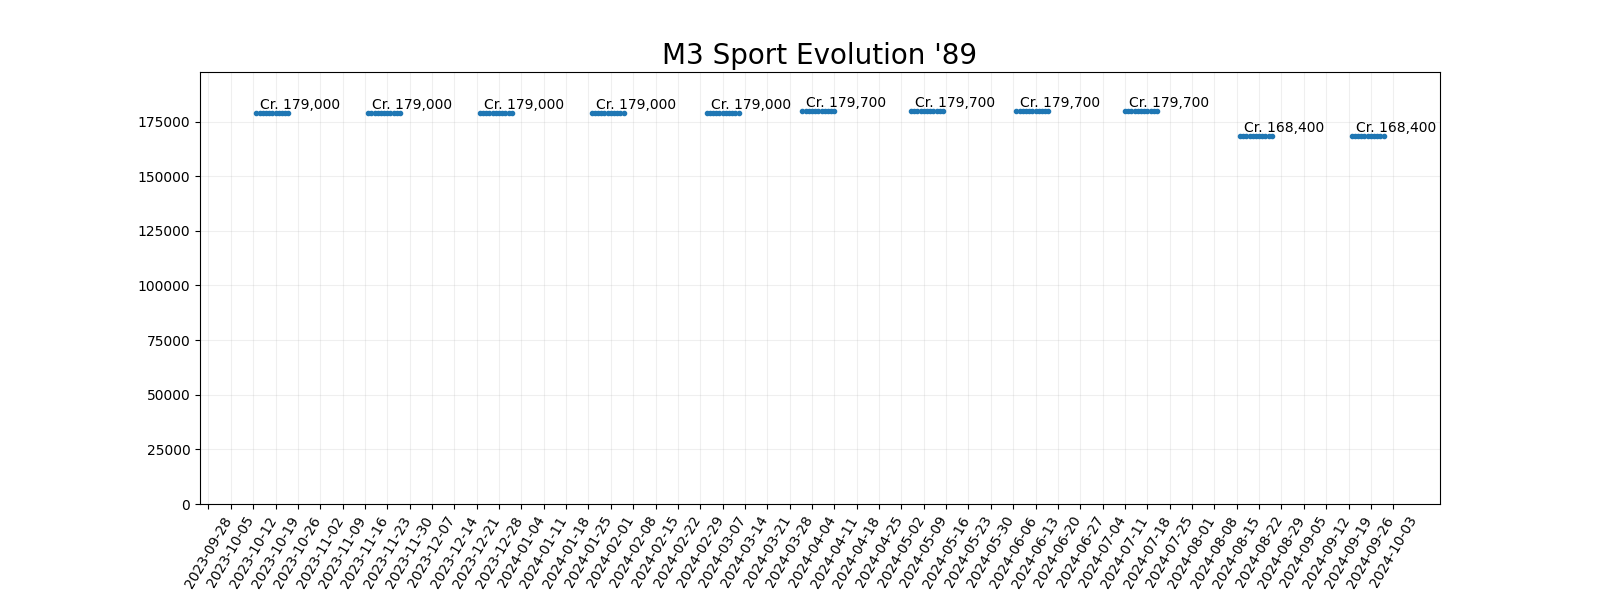
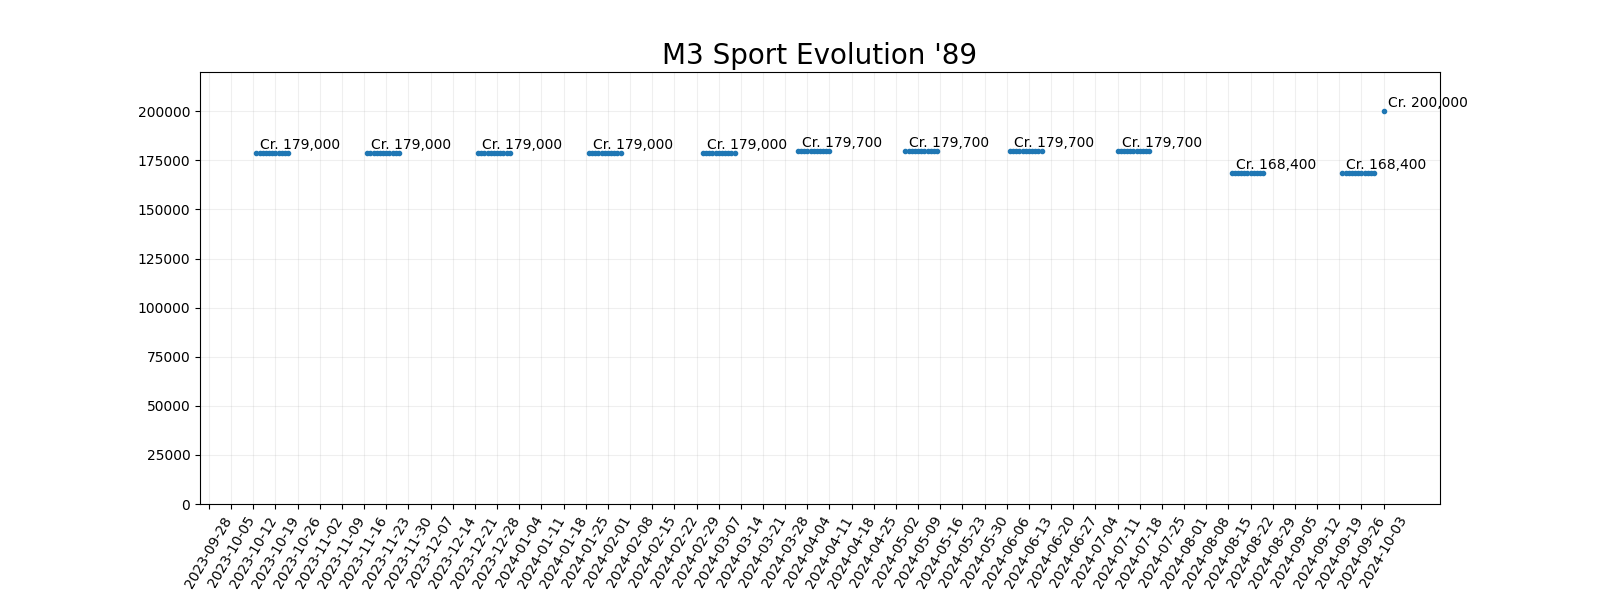
Deploying to gh-pages from @ ddm999/gt7info@818713f7c41b587898bad4af7f79d04671123d4d 🚀

diff --git a/index.html b/index.html
@@ -15,7 +15,7 @@
   <script type="application/ld+json">
     {"@context":"https://schema.org","@type":"WebSite","headline":"GT7 Online Dealerships & Info","name":"ddm999.github.io","url":"https://ddm999.github.io/gt7info/"}
   </script>
-  <link rel="stylesheet" href="style.css?nocache=20241003000955">
+  <link rel="stylesheet" href="style.css?nocache=20241003091059">
 </head>
 <body>
   <div class="wrapper">
@@ -67,7 +67,14 @@
       <br>
       Hover over the icons in the bottom-left of cars for more details on what they represent.<br>
       Note that cars are always "Limited Stock" for 2 days.<br>
-      <span class="car-container"><p class="car">
+      <span class="car-container"><p class="car carnew">
+        <img id="flag" src="https://flagcdn.com/h24/jp.png"/>
+        <span id="manufacturer">MITSUBISHI</span>
+        <span id="name">Lancer Evolution VIII MR GSR '04</span>
+        <span id="credits"><span id="cr">Cr.</span> 65,800</span>
+        <span id="new">NEW</span>
+        <span id="days-estimate">No Estimate Available</span>
+      </p><p class="car">
         <img id="flag" src="https://flagcdn.com/h24/jp.png"/>
         <span id="manufacturer">NISSAN</span>
         <span id="name"><a href="cars/prices_919.png" target="_blank">Silvia Q's (S13) '88</a></span>
@@ -77,12 +84,30 @@
         <img id="reward-icon" src="img/open-book.svg" width="24" title="Reward from Menu Book 10"/>
         <span id="engineswap-text">ENGINE<br>SWAP</span>
         <img id="engineswap-icon" src="img/engine.svg" width="24" title="Supports engine swap: LS7-BRZ from BRZ Drift Car '17"/>
+      </p><p class="car carnew">
+        <img id="flag" src="https://flagcdn.com/h24/de.png"/>
+        <span id="manufacturer">BMW</span>
+        <span id="name"><a href="cars/prices_3344.png" target="_blank">M3 Sport Evolution '89</a></span>
+        <span id="credits"><span id="cr">Cr.</span> 200,000</span>
+        <span id="new">NEW</span>
+        <span id="days-estimate">No Estimate Available</span>
+        <span id="reward-text">REWARD<br>CAR</span>
+        <img id="reward-icon" src="img/open-book.svg" width="24" title="Reward from Menu Book 22"/>
+        <span id="engineswap-text">ENGINE<br>SWAP</span>
+        <img id="engineswap-icon" src="img/engine.svg" width="24" title="Supports engine swap: B58-GR-Supra-'20 from GR Supra RZ '20"/>
+      </p><p class="car carnew">
+        <img id="flag" src="https://flagcdn.com/h24/us.png"/>
+        <span id="manufacturer">FORD</span>
+        <span id="name"><a href="cars/prices_3466.png" target="_blank">Sierra RS 500 Cosworth '87</a></span>
+        <span id="credits"><span id="cr">Cr.</span> 200,000</span>
+        <span id="new">NEW</span>
+        <span id="days-estimate">No Estimate Available</span>
       </p><p class="car">
         <img id="flag" src="https://flagcdn.com/h24/jp.png"/>
         <span id="manufacturer">HONDA</span>
         <span id="name"><a href="cars/prices_37.png" target="_blank">Civic SiR-II (EG) '93</a></span>
         <span id="credits"><span id="cr">Cr.</span> 52,500</span>
-        <span id="days-estimate">Available For 6 More Days</span>
+        <span id="days-estimate">Available For 2 More Days</span>
         <span id="engineswap-text">ENGINE<br>SWAP</span>
         <img id="engineswap-icon" src="img/engine.svg" width="24" title="Supports engine swap: B18C-Integra-'98 from Integra Type R (DC2) '98"/>
       </p><p class="car carnew">
@@ -150,7 +175,7 @@
         <span id="manufacturer">TOYOTA</span>
         <span id="name"><a href="cars/prices_63.png" target="_blank">Corolla Levin 1600GT APEX (AE86) '83</a></span>
         <span id="credits"><span id="cr">Cr.</span> 48,900</span>
-        <span id="days-estimate">Available For 4 More Days</span>
+        <span id="days-estimate">Available For 2 More Days</span>
         <span id="reward-text">REWARD<br>CAR</span>
         <img id="reward-icon" src="img/open-book.svg" width="24" title="Reward from Menu Book 10"/>
         <span id="engineswap-text">ENGINE<br>SWAP</span>
@@ -167,7 +192,7 @@
         <span id="manufacturer">MITSUBISHI</span>
         <span id="name"><a href="cars/prices_211.png" target="_blank">Lancer Evolution V GSR '98</a></span>
         <span id="credits"><span id="cr">Cr.</span> 80,100</span>
-        <span id="days-estimate">Available For 6 More Days</span>
+        <span id="days-estimate">Available For 4 More Days</span>
         <span id="engineswap-text">ENGINE<br>SWAP</span>
         <img id="engineswap-icon" src="img/engine.svg" width="24" title="Supports engine swap: Evo-Final-Gr.B from Lancer Evolution Final Gr.B Rally Car"/>
       </p><p class="car carlimited">
@@ -214,13 +239,13 @@
         <span id="manufacturer">SUBARU</span>
         <span id="name"><a href="cars/prices_3432.png" target="_blank">Impreza Sedan WRX STi '04</a></span>
         <span id="credits"><span id="cr">Cr.</span> 42,000</span>
-        <span id="days-estimate">Available For 3 More Days</span>
+        <span id="days-estimate">Available For 5 More Days</span>
       </p><p class="car">
         <img id="flag" src="https://flagcdn.com/h24/jp.png"/>
         <span id="manufacturer">SUBARU</span>
         <span id="name"><a href="cars/prices_379.png" target="_blank">Impreza Coupe WRX Type R STi Ver.VI '99</a></span>
         <span id="credits"><span id="cr">Cr.</span> 55,000</span>
-        <span id="days-estimate">Available For 7 More Days</span>
+        <span id="days-estimate">Available For 3 More Days</span>
       </p><p class="car carlimited">
         <img id="flag" src="https://flagcdn.com/h24/jp.png"/>
         <span id="manufacturer">MITSUBISHI</span>
@@ -237,7 +262,7 @@
         <span id="manufacturer">NISSAN</span>
         <span id="name"><a href="cars/prices_773.png" target="_blank">R32 GT-R V-spec II '94</a></span>
         <span id="credits"><span id="cr">Cr.</span> 178,600</span>
-        <span id="days-estimate">Available For 10 More Days</span>
+        <span id="days-estimate">Available For 6 More Days</span>
         <span id="reward-text">REWARD<br>CAR</span>
         <img id="reward-icon" src="img/open-book.svg" width="24" title="Reward from Menu Book 18"/>
         <span id="engineswap-text">ENGINE<br>SWAP</span>
@@ -247,7 +272,7 @@
         <span id="manufacturer">MITSUBISHI</span>
         <span id="name"><a href="cars/prices_301.png" target="_blank">Lancer Evolution IV GSR '96</a></span>
         <span id="credits"><span id="cr">Cr.</span> 39,600</span>
-        <span id="days-estimate">Available For 10 More Days</span>
+        <span id="days-estimate">Available For 6 More Days</span>
         <span id="engineswap-text">ENGINE<br>SWAP</span>
         <img id="engineswap-icon" src="img/engine.svg" width="24" title="Supports engine swap: Evo-Final-Gr.B from Lancer Evolution Final Gr.B Rally Car"/>
       </p><p class="car carlimited">
@@ -270,7 +295,7 @@
         <span id="manufacturer">CHEVROLET</span>
         <span id="name"><a href="cars/prices_1480.png" target="_blank">Corvette ZR1 (C6) '09</a></span>
         <span id="credits"><span id="cr">Cr.</span> 99,000</span>
-        <span id="days-estimate">Available For 7 More Days</span>
+        <span id="days-estimate">Available For 5 More Days</span>
         <span id="engineswap-text">ENGINE<br>SWAP</span>
         <img id="engineswap-icon" src="img/engine.svg" width="24" title="Supports engine swap: 8.0-WR16-64v4T-Chiron from Chiron '16"/>
         <span id="lottery-text">TICKET<br>REWARD</span>
@@ -308,7 +333,7 @@
         <span id="manufacturer">AUDI</span>
         <span id="name"><a href="cars/prices_1365.png" target="_blank">R8 4.2 '07</a></span>
         <span id="credits"><span id="cr">Cr.</span> 135,900</span>
-        <span id="days-estimate">Available For 10 More Days</span>
+        <span id="days-estimate">Available For 5 More Days</span>
       </p><p class="car">
         <img id="flag" src="https://flagcdn.com/h24/jp.png"/>
         <span id="manufacturer">HONDA</span>
@@ -322,7 +347,7 @@
         <span id="manufacturer">PORSCHE</span>
         <span id="name"><a href="cars/prices_3358.png" target="_blank">911 GT3 (996) '01</a></span>
         <span id="credits"><span id="cr">Cr.</span> 161,700</span>
-        <span id="days-estimate">Available For 6 More Days</span>
+        <span id="days-estimate">Available For 4 More Days</span>
       </p><p class="car">
         <img id="flag" src="https://flagcdn.com/h24/de.png"/>
         <span id="manufacturer">PORSCHE</span>
@@ -346,6 +371,15 @@
         <span id="name"><a href="cars/prices_365.png" target="_blank">155 2.5 V6 TI '93</a></span>
         <span id="credits"><span id="cr">Cr.</span> 800,000</span>
         <span id="days-estimate">No Estimate Available</span>
+      </p><p class="lcar carnew">
+        <img id="icon" src="img/legend-hagerty-icon.svg"/>
+        <span id="manufacturer">Mercedes-Benz</span>
+        <span id="name"><a href="cars/prices_575.png" target="_blank">190 E 2.5-16 Evolution II '91</a></span>
+        <span id="credits"><span id="cr">Cr.</span> 280,000</span>
+        <span id="new">NEW</span>
+        <span id="days-estimate">No Estimate Available</span>
+        <span id="engineswap-text">ENGINE<br>SWAP</span>
+        <img id="engineswap-icon" src="img/engine-lcd.svg" width="24" title="Supports engine swap: M159-AMG-GT3-'20 from GT3 '20"/>
       </p><p class="lcar carlimited">
         <img id="icon" src="img/legend-hagerty-icon.svg"/>
         <span id="manufacturer">Ford</span>
@@ -360,13 +394,13 @@
         <span id="manufacturer">Nissan</span>
         <span id="name"><a href="cars/prices_954.png" target="_blank">R92CP '92</a></span>
         <span id="credits"><span id="cr">Cr.</span> 2,000,000</span>
-        <span id="days-estimate">Available For 7 More Days</span>
+        <span id="days-estimate">Available For 5 More Days</span>
       </p><p class="lcar">
         <img id="icon" src="img/legend-hagerty-icon.svg"/>
         <span id="manufacturer">Plymouth</span>
         <span id="name"><a href="cars/prices_665.png" target="_blank">Superbird '70</a></span>
         <span id="credits"><span id="cr">Cr.</span> 402,000</span>
-        <span id="days-estimate">Available For 3 More Days</span>
+        <span id="days-estimate">Available For 2 More Days</span>
         <span id="engineswap-text">ENGINE<br>SWAP</span>
         <img id="engineswap-icon" src="img/engine-lcd.svg" width="24" title="Supports engine swap: Hellcat-Charger from Charger SRT Hellcat '15"/>
       </p><p class="lcar">
@@ -374,7 +408,7 @@
         <span id="manufacturer">Mercedes-Benz</span>
         <span id="name"><a href="cars/prices_3441.png" target="_blank">300 SL (W194) '52</a></span>
         <span id="credits"><span id="cr">Cr.</span> 20,000,000</span>
-        <span id="days-estimate">Available For 8 More Days</span>
+        <span id="days-estimate">Available For 4 More Days</span>
       </p><p class="lcar carlimited">
         <img id="icon" src="img/legend-hagerty-icon.svg"/>
         <span id="manufacturer">Mazda</span>
@@ -393,7 +427,7 @@
         <span id="manufacturer">Ford</span>
         <span id="name"><a href="cars/prices_1935.png" target="_blank">GT40 Mark I '66</a></span>
         <span id="credits"><span id="cr">Cr.</span> 6,700,000</span>
-        <span id="days-estimate">Available For 8 More Days</span>
+        <span id="days-estimate">Available For 4 More Days</span>
       </p><p class="lcar carlimited">
         <img id="icon" src="img/legend-hagerty-icon.svg"/>
         <span id="manufacturer">Mercedes-Benz</span>
@@ -413,7 +447,7 @@
         <span id="manufacturer">Lamborghini</span>
         <span id="name"><a href="cars/prices_1582.png" target="_blank">Miura P400 Bertone Prototype '67</a></span>
         <span id="credits"><span id="cr">Cr.</span> 3,750,000</span>
-        <span id="days-estimate">Available For 4 More Days</span>
+        <span id="days-estimate">Available For 3 More Days</span>
       </p></span>
       <span id="back-to-top"><a href="#navigation">Back to top</a></span>
     </section>

diff --git a/engine-swaps.html b/engine-swaps.html
@@ -31,8 +31,8 @@ List is sorted by source car name.<br>
     <h4 style="display: inline-block;">690T-Giulia</h3>&emsp;
         <small>Source car:<br>Alfa Romeo Giulia GTAm '20</small><br>
     <ul>
-        <li>Hyundai Genesis Coupe 3.8 '13 - <b>New in v1.49!</b></li>
-        <li>Mazda Atenza Sedan XD L Package '15 - <b>New in v1.49!</b></li>
+        <li>Hyundai Genesis Coupe 3.8 '13 - v1.49</li>
+        <li>Mazda Atenza Sedan XD L Package '15 - v1.49</li>
     </ul>
 </div>
 <div id="engine-swap-block">
@@ -63,8 +63,8 @@ List is sorted by source car name.<br>
     <ul>
         <li>BMW 3.0 CSL '73</li>
         <li>BMW M3 '03</li>
-        <li>BMW M3 '07 - <b>New in v1.49!</b></li>
-        <li>BMW M4 '14 - <b>New in v1.49!</b></li>
+        <li>BMW M3 '07 - v1.49</li>
+        <li>BMW M4 '14 - v1.49</li>
     </ul>
 </div>
 <div id="engine-swap-block">
@@ -120,6 +120,7 @@ List is sorted by source car name.<br>
         <small>Source car:<br>Dodge Challenger SRT Demon '18</small><br>
     <ul>
         <li>Dodge Charger R/T 426 Hemi '68 - v1.42</li>
+        <li>Mitsubishi GTO Twin Turbo '91 - <b>New in v1.52!</b></li>
     </ul>
 </div>
 <div id="engine-swap-block">
@@ -176,9 +177,10 @@ List is sorted by source car name.<br>
         <li>Honda Civic Type R (EK) Touring Car - v1.48</li>
         <li>Honda Civic Type R (EK) '97 - v1.48</li>
         <li>Honda Integra Type R (DC2) '95 - v1.48</li>
-        <li>Honda S2000 '99 - <b>New in v1.49!</b></li>
-        <li>MINI Cooper S '05 - <b>New in v1.49!</b></li>
+        <li>Honda S2000 '99 - v1.49</li>
+        <li>MINI Cooper S '05 - v1.49</li>
         <li>Nissan Sileighty - v1.48</li>
+        <li>Toyota 86 GT '15 - <b>New in v1.52!</b></li>
     </ul>
 </div>
 <div id="engine-swap-block">
@@ -246,6 +248,7 @@ List is sorted by source car name.<br>
     <h4 style="display: inline-block;">3UZ-FE-SC430</h3>&emsp;
         <small>Source car:<br>Lexus SC430 GT500 '08</small><br>
     <ul>
+        <li>Toyota 86 GRMN '16 - <b>New in v1.52!</b></li>
         <li>Toyota Crown Athlete G '13</li>
         <li>Toyota Tundra TRD Pro '19</li>
     </ul>
@@ -263,6 +266,8 @@ List is sorted by source car name.<br>
         <small>Source car:<br>Mazda 787B '91</small><br>
     <ul>
         <li>Mazda Atenza Gr.3 Road Car - v1.40</li>
+        <li>Mazda Roadster NR-A (ND) '22 - <b>New in v1.52!</b></li>
+        <li>Mazda Roadster Touring Car - <b>New in v1.52!</b></li>
         <li>Mazda RX-7 GT-X (FC) '90 - v1.34</li>
         <li>Mazda RX-7 Spirit R Type A (FD) '02</li>
         <li>Mazda RX-8 Spirit R '12</li>
@@ -286,6 +291,7 @@ List is sorted by source car name.<br>
         <li>Mitsubishi Lancer Evolution V GSR '98 - v1.44</li>
         <li>Mitsubishi Lancer Evolution VI GSR T.M. SCP '99 - v1.44</li>
         <li>Mitsubishi Lancer Evolution IX MR GSR '06 - v1.44</li>
+        <li>Mitsubishi Lancer Evolution Final '15 - <b>New in v1.52!</b></li>
     </ul>
 </div>
 <div id="engine-swap-block">
@@ -293,6 +299,7 @@ List is sorted by source car name.<br>
         <small>Source car:<br>Nissan GT-R GT500 '08</small><br>
     <ul>
         <li>Nissan Fairlady Z (Z34) '08</li>
+        <li>Nissan Silvia spec-R Aero (S15) Touring Car - <b>New in v1.52!</b></li>
     </ul>
 </div>
 <div id="engine-swap-block">
@@ -308,6 +315,7 @@ List is sorted by source car name.<br>
         <li>Nissan Silvia spec-R Aero (S15) Touring Car - v1.26</li>
         <li>Nissan Z Performance '23 - v1.35</li>
         <li>NISMO 400R '95 - v1.42</li>
+        <li>Toyota 86 Gr.4 - <b>New in v1.52!</b></li>
     </ul>
 </div>
 <div id="engine-swap-block">
@@ -315,7 +323,7 @@ List is sorted by source car name.<br>
         <small>Source car:<br>Nissan Skyline R34 GT-R V-spec II Nur '02</small><br>
     <ul>
         <li>Nissan Fairlady Z Version S (Z33) '07 - v1.35</li>
-        <li>Nissan Skyline GTS-R (R31) '87 - <b>New in v1.49!</b></li>
+        <li>Nissan Skyline GTS-R (R31) '87 - v1.49</li>
     </ul>
 </div>
 <div id="engine-swap-block">
@@ -332,6 +340,7 @@ List is sorted by source car name.<br>
         <small>Source car:<br>Nissan SILVIA spec-R AERO (S15) '02</small><br>
     <ul>
         <li>Nissan Fairlady Z 432 '69 - v1.31</li>
+        <li>Nissan Silvia Q's (S13) '88 - <b>New in v1.52!</b></li>
         <li>Nissan Silvia K's Dia Selection (S13) '90</li>
     </ul>
 </div>
@@ -401,12 +410,13 @@ List is sorted by source car name.<br>
     <h4 style="display: inline-block;">LS7-BRZ</h3>&emsp;
         <small>Source car:<br>Subaru BRZ Drift Car '17</small><br>
     <ul>
-        <li>BMW M3 '97 - <b>New in v1.49!</b></li>
-        <li>BMW M4 Gr.4 - <b>New in v1.49!</b></li>
+        <li>BMW M3 '97 - v1.49</li>
+        <li>BMW M4 Gr.4 - v1.49</li>
         <li>Bugatti Veyron Gr.4 - v1.46</li>
         <li>Lexus LC500 - v1.46</li>
         <li>Nissan GT-R '17 - v1.43</li>
         <li>Nissan Silvia Q's (S13) '88</li>
+        <li>Toyota Hiace Van DX '16 - <b>New in v1.52!</b></li>
     </ul>
 </div>
 <div id="engine-swap-block">
@@ -438,7 +448,7 @@ List is sorted by source car name.<br>
     <h4 style="display: inline-block;">B58-GR-Supra-'20</h3>&emsp;
         <small>Source car:<br>Toyota GR Supra RZ '20</small><br>
     <ul>
-        <li>BMW M3 Sport Evolution '89 - <b>New in v1.49!</b></li>
+        <li>BMW M3 Sport Evolution '89 - v1.49</li>
     </ul>
 </div>
 <div id="engine-swap-block">
